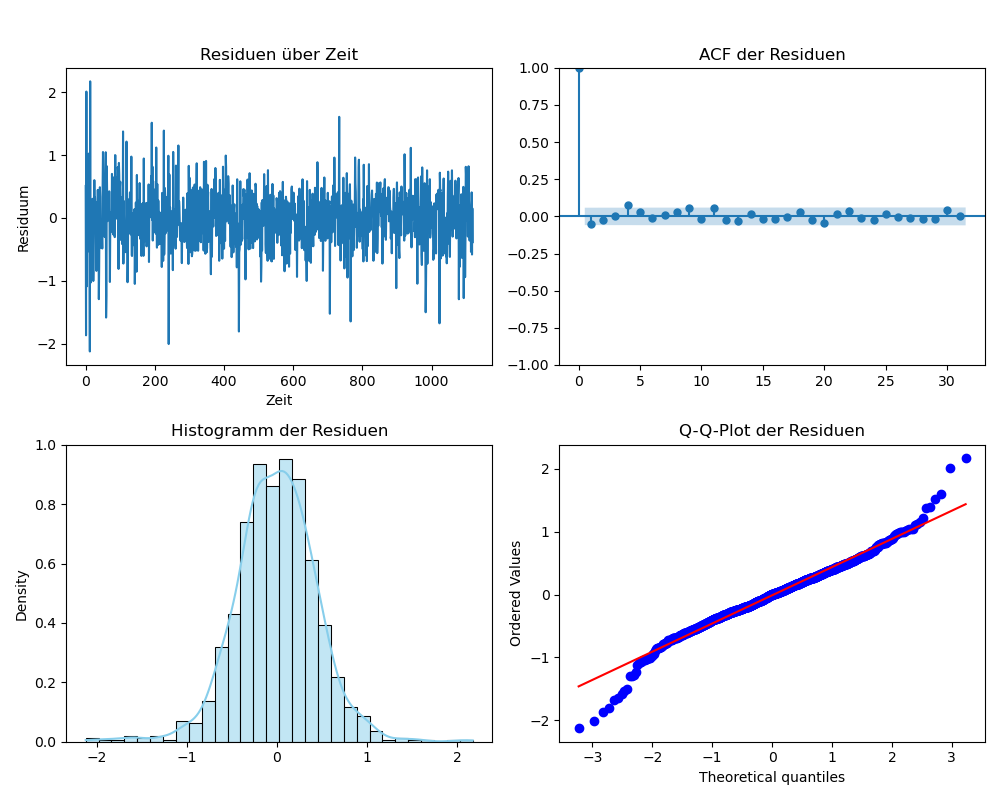
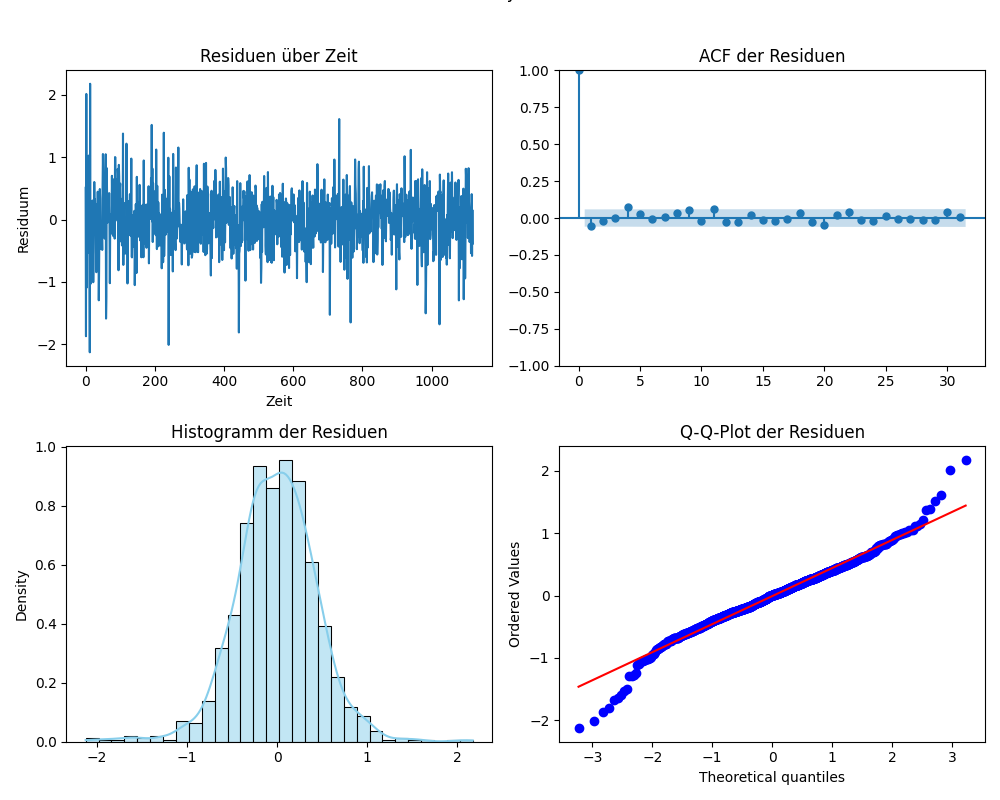
Änderungen von main übernommen

diff --git a/ergebnisse/evaluations_metriken/abakan_evaluation.py b/ergebnisse/evaluations_metriken/abakan_evaluation.py
@@ -1,27 +1,27 @@
 """
 AutoARIMA Evaluationsmetriken für Abakan
-Generiert am: 2025-05-17 00:12:04
+Generiert am: 2025-05-18 13:23:15
 """
 
 evaluation_metrics = {
     'stadt': 'abakan',
-    'order': (3, 0, 0),
+    'order': (2, 0, 1),
     'seasonal_order': (1, 0, 1, 12),
-    'aic': 7660.01825636895,
-    'bic': 7697.680046887935,
-    'generiert_am': '2025-05-17 00:12:04',
-    'parameter_names': ['intercept', 'ar.L1', 'ar.L2', 'ar.L3', 'ar.S.L12', 'ma.S.L12', 'sigma2'],
-    'parameter_values': [-0.0015986574385440622, 0.1943900116446456, -0.0020763365655615583, 0.0027081604750139013, 0.9981299521184749, -0.8631954508158636, 6.730086839933276],
-    't_values': [-0.8548972756790408, 9.541744867550326, -0.08742529539790624, 0.10483688544966735, 2154.4078141225973, -62.1773125209973, 33.43881658524616],
-    'p_values': [0.39260801894358255, 1.4044903606962416e-21, 0.9303334635335286, 0.9165052409505277, 0.0, 0.0, 3.742371051760758e-245],
-    'log_likelihood': -3823.009128184475,
+    'aic': 7650.585064321601,
+    'bic': 7688.246854840586,
+    'generiert_am': '2025-05-18 13:23:15',
+    'parameter_names': ['intercept', 'ar.L1', 'ar.L2', 'ma.L1', 'ar.S.L12', 'ma.S.L12', 'sigma2'],
+    'parameter_values': [-4.959019491396941e-05, 1.05679596394322, -0.1693211119214285, -0.8935367596640843, 0.9989016625392952, -0.8554367829648419, 7.098026849208404],
+    't_values': [-0.1990903491165601, 11.724156865349956, -7.495623579847706, -9.85289478663086, 2580.7712067342895, -53.4320328312059, 32.083198847039256],
+    'p_values': [0.8421920704064746, 9.585062098394292e-32, 6.598390263014846e-14, 6.659767094501983e-23, 0.0, 0.0, 7.563347522039301e-226],
+    'log_likelihood': -3818.2925321608004,
     'n_observations': 1604,
-    'significant_parameters': ['ar.L1', 'ar.S.L12', 'ma.S.L12', 'sigma2'],
+    'significant_parameters': ['ar.L1', 'ar.L2', 'ma.L1', 'ar.S.L12', 'ma.S.L12', 'sigma2'],
 }
 # === Residuenanalyse nach Test des gefundenen SARIMA-Modells ===
 # Folds ausgewertet: 5
-# Durchschnittlicher Train-RMSE: 2.5850
-# Durchschnittlicher Test-RMSE:  3.3924
-# Durchschnittlicher Train-MSE:  6.6834
-# Durchschnittlicher Test-MSE:   11.5514
-# Durchschnittlicher Ljung-Box p-Wert (Lag 10): 0.9348
+# Durchschnittlicher Train-RMSE: 2.5836
+# Durchschnittlicher Test-RMSE:  3.3926
+# Durchschnittlicher Train-MSE:  6.6758
+# Durchschnittlicher Test-MSE:   11.5530
+# Durchschnittlicher Ljung-Box p-Wert (Lag 10): 0.9332

diff --git a/ergebnisse/evaluations_metriken/berlin_evaluation.py b/ergebnisse/evaluations_metriken/berlin_evaluation.py
@@ -1,27 +1,27 @@
 """
 AutoARIMA Evaluationsmetriken für Berlin
-Generiert am: 2025-05-17 00:18:17
+Generiert am: 2025-05-18 13:29:07
 """
 
 evaluation_metrics = {
     'stadt': 'berlin',
-    'order': (0, 1, 1),
+    'order': (1, 1, 2),
     'seasonal_order': (1, 0, 1, 12),
-    'aic': 6843.238962872178,
-    'bic': 6870.137123635225,
-    'generiert_am': '2025-05-17 00:18:17',
-    'parameter_names': ['intercept', 'ma.L1', 'ar.S.L12', 'ma.S.L12', 'sigma2'],
-    'parameter_values': [-2.7412615402452704e-06, -0.9896346018042939, 0.9971526120424006, -0.8759337905964002, 4.001753658515494],
-    't_values': [-0.09423688836259635, -207.93262824500945, 1246.718950330383, -58.51175030842492, 39.70036765378293],
-    'p_values': [0.9249209824694649, 0.0, 0.0, 0.0, 0.0],
-    'log_likelihood': -3416.619481436089,
+    'aic': 6782.348927726002,
+    'bic': 6820.006352794269,
+    'generiert_am': '2025-05-18 13:29:07',
+    'parameter_names': ['intercept', 'ar.L1', 'ma.L1', 'ma.L2', 'ar.S.L12', 'ma.S.L12', 'sigma2'],
+    'parameter_values': [-2.6192514405578967e-06, 0.8814723951953949, -1.7591907128642905, 0.7635470998383126, 0.9990553307759479, -0.8746453020743412, 4.0256496554791115],
+    't_values': [-0.35706199310319053, 32.01564506474657, -52.46440903376812, 24.148571610409547, 1929.9799419595504, -58.564729546155114, 44.35762888599747],
+    'p_values': [0.7210453966043044, 6.60543095981888e-225, 0.0, 7.729139029233765e-129, 0.0, 0.0, 0.0],
+    'log_likelihood': -3384.174463863001,
     'n_observations': 1604,
-    'significant_parameters': ['ma.L1', 'ar.S.L12', 'ma.S.L12', 'sigma2'],
+    'significant_parameters': ['ar.L1', 'ma.L1', 'ma.L2', 'ar.S.L12', 'ma.S.L12', 'sigma2'],
 }
 # === Residuenanalyse nach Test des gefundenen SARIMA-Modells ===
 # Folds ausgewertet: 5
-# Durchschnittlicher Train-RMSE: 1.9190
-# Durchschnittlicher Test-RMSE:  2.5908
-# Durchschnittlicher Train-MSE:  3.6825
-# Durchschnittlicher Test-MSE:   6.7201
-# Durchschnittlicher Ljung-Box p-Wert (Lag 10): 0.0905
+# Durchschnittlicher Train-RMSE: 1.9160
+# Durchschnittlicher Test-RMSE:  2.5921
+# Durchschnittlicher Train-MSE:  3.6710
+# Durchschnittlicher Test-MSE:   6.7272
+# Durchschnittlicher Ljung-Box p-Wert (Lag 10): 0.9326

diff --git a/module/modellierung/pipeline_modellierung.py b/module/modellierung/pipeline_modellierung.py
@@ -30,21 +30,35 @@ def run_complete_modeling():
     completed_steps = 0
     total_steps = 2
 
-    # === Schritt 1: AutoARIMA Modellauswahl ===
-    print(f"\n🤖 SCHRITT 1/{total_steps}: AutoARIMA Modellauswahl")
-    print("-" * 80)
-    print("   → Automatische SARIMA-Modellauswahl für alle Städte")
-    print("   → Speichert optimale Modellparameter")
-    print("   → Erstellt Evaluationsmetriken")
+    try:
+        # === Schritt 1: AutoARIMA Modellauswahl ===
+        print(f"\n🤖 SCHRITT 1/{total_steps}: AutoARIMA Modellauswahl")
+        print("-" * 80)
+        print("   → Automatische SARIMA-Modellauswahl für alle Städte")
+        print("   → Speichert optimale Modellparameter")
+        print("   → Erstellt Evaluationsmetriken")
 
+        # Tatsächlicher Funktionsaufruf!
+        AutoArima.main()
+        completed_steps += 1
+        print(f"✅ Schritt 1/{total_steps} erfolgreich abgeschlossen")
 
-    # === Schritt 2: SARIMA Cross-Validation & Residuenanalyse ===
-    print(f"\n🔬 SCHRITT 2/{total_steps}: SARIMA Cross-Validation & Residuenanalyse")
-    print("-" * 80)
-    print("   → Cross-Validation mit Expanding Window")
-    print("   → Residuenanalyse und Diagnostik")
-    print("   → Prognose-Evaluierung")
+        # === Schritt 2: SARIMA Cross-Validation & Residuenanalyse ===
+        print(f"\n🔬 SCHRITT 2/{total_steps}: SARIMA Cross-Validation & Residuenanalyse")
+        print("-" * 80)
+        print("   → Cross-Validation mit Expanding Window")
+        print("   → Residuenanalyse und Diagnostik")
+        print("   → Prognose-Evaluierung")
 
+        # Tatsächlicher Funktionsaufruf!
+        SarimaCvRes.main()
+        completed_steps += 1
+        print(f"✅ Schritt 2/{total_steps} erfolgreich abgeschlossen")
+
+    except Exception as e:
+        print(f"❌ Fehler in Schritt {completed_steps + 1}: {e}")
+        print("Abbruch der Pipeline...")
+        return False
 
     # === Erfolgreiche Zusammenfassung ===
     end_time = time.time()

diff --git a/ergebnisse/evaluations_metriken/angeles_evaluation.py b/ergebnisse/evaluations_metriken/angeles_evaluation.py
@@ -1,20 +1,20 @@
 """
 AutoARIMA Evaluationsmetriken für Angeles
-Generiert am: 2025-05-17 00:24:08
+Generiert am: 2025-05-18 13:35:14
 """
 
 evaluation_metrics = {
     'stadt': 'angeles',
     'order': (2, 1, 1),
     'seasonal_order': (1, 0, 1, 12),
-    'aic': 1972.7504028473475,
-    'bic': 2010.4078279156142,
-    'generiert_am': '2025-05-17 00:24:08',
+    'aic': 2027.7442025051052,
+    'bic': 2065.401627573372,
+    'generiert_am': '2025-05-18 13:35:14',
     'parameter_names': ['intercept', 'ar.L1', 'ar.L2', 'ma.L1', 'ar.S.L12', 'ma.S.L12', 'sigma2'],
-    'parameter_values': [-1.2587080466925437e-05, 0.3215558402368969, 0.15990997019004105, -0.9863164610018507, 0.9977949194190829, -0.8456474659340081, 0.2044163934297668],
-    't_values': [-0.7927695227841297, 15.623963747504519, 6.942882865206775, -145.17820076409183, 931.8193385676457, -44.661241518819025, 31.437298275897284],
-    'p_values': [0.4279121162585705, 4.999839860352619e-55, 3.841779627617821e-12, 0.0, 0.0, 0.0, 6.260800574075759e-217],
-    'log_likelihood': -979.3752014236737,
+    'parameter_values': [1.1654156384802648e-06, 0.4061800900165722, 0.16895290999971502, -0.962899657449246, 0.99493258372272, -0.8202611330213396, 0.20272150046873133],
+    't_values': [0.03168171054458729, 14.846551742296437, 6.422032114867724, -69.86631325267832, 592.4651203809024, -41.95254443704889, 31.669611756012586],
+    'p_values': [0.9747258804359973, 7.32402393908572e-50, 1.3446704364734664e-10, 0.0, 0.0, 0.0, 4.0731739872794765e-220],
+    'log_likelihood': -1006.8721012525526,
     'n_observations': 1604,
     'significant_parameters': ['ar.L1', 'ar.L2', 'ma.L1', 'ar.S.L12', 'ma.S.L12', 'sigma2'],
 }

diff --git a/skripte/main_universell.py b/skripte/main_universell.py
@@ -29,7 +29,8 @@ def main():
     # ========== KONFIGURATION - WAS SOLL AUSGEFÜHRT WERDEN? ==========
 
     # Option 1: Komplette universelle Pipeline ausführen (Standard)
-    mode = ["cross_validation", "prognose"]   # Ändern Sie das hier für andere Modi
+    #mode = ["cross_validation", "prognose"]   # Ändern Sie das hier für andere Modi
+    mode = "complete"
 
     # Option 2: Nur spezifische Analysen ausführen
     # mode = "auto_arima"        # Nur universelles AutoARIMA

diff --git a/skripte/main_modellierung.py b/skripte/main_modellierung.py
@@ -28,7 +28,7 @@ def main():
     # ========== KONFIGURATION - WAS SOLL AUSGEFÜHRT WERDEN? ==========
 
     # Option 1: Komplette Pipeline ausführen (Standard)
-    mode = "sarima_cv"  # Ändern Sie das hier für andere Modi
+    mode = "complete"  # Ändern Sie das hier für andere Modi
 
     # Option 2: Nur spezifische Schritte ausführen
     # mode = "autoarima"      # Nur AutoARIMA Modellauswahl

diff --git a/module/modellierung/SarimaCvRes.py b/module/modellierung/SarimaCvRes.py
@@ -8,6 +8,8 @@ import scipy.stats as stats
 from statsmodels.graphics.tsaplots import plot_acf
 from statsmodels.tsa.statespace.sarimax import SARIMAX
 from statsmodels.tools.eval_measures import rmse, mse
+import warnings
+warnings.filterwarnings("ignore")
 
 # === Zentrale Konfiguration importieren ===
 sys.path.insert(0, os.path.abspath(os.path.join(os.path.dirname(__file__), '..', '..')))

diff --git a/ergebnisse/model_parameters/berlin_params.py b/ergebnisse/model_parameters/berlin_params.py
@@ -1,10 +1,10 @@
 """
 AutoARIMA Modellparameter für Berlin
-Generiert am: 2025-05-17 00:18:17
+Generiert am: 2025-05-18 13:29:07
 """
 
 name = 'berlin'
-order = (0, 0, 1)
+order = (1, 0, 2)
 seasonal_order = (1, 0, 1, 12)
-aic = 6843.238962872178
-bic = 6870.137123635225
+aic = 6782.348927726002
+bic = 6820.006352794269

diff --git a/ergebnisse/model_parameters/abakan_params.py b/ergebnisse/model_parameters/abakan_params.py
@@ -1,10 +1,10 @@
 """
 AutoARIMA Modellparameter für Abakan
-Generiert am: 2025-05-17 00:12:04
+Generiert am: 2025-05-18 13:23:15
 """
 
 name = 'abakan'
-order = (3, 0, 0)
+order = (2, 0, 1)
 seasonal_order = (1, 0, 1, 12)
-aic = 7660.01825636895
-bic = 7697.680046887935
+aic = 7650.585064321601
+bic = 7688.246854840586

diff --git a/ergebnisse/model_parameters/angeles_params.py b/ergebnisse/model_parameters/angeles_params.py
@@ -1,10 +1,10 @@
 """
 AutoARIMA Modellparameter für Angeles
-Generiert am: 2025-05-17 00:24:08
+Generiert am: 2025-05-18 13:35:14
 """
 
 name = 'angeles'
 order = (2, 0, 1)
 seasonal_order = (1, 0, 1, 12)
-aic = 1972.7504028473475
-bic = 2010.4078279156142
+aic = 2027.7442025051052
+bic = 2065.401627573372

diff --git a/ergebnisse/evaluations_metriken_universell/angeles_evaluation.py b/ergebnisse/evaluations_metriken_universell/angeles_evaluation.py
@@ -1,6 +1,6 @@
 """
 Universelle AutoARIMA Evaluationsmetriken für Angeles
-Generiert am: 2025-05-18 00:07:06
+Generiert am: 2025-05-18 13:54:42
 """
 
 evaluation_metrics = {

diff --git a/ergebnisse/evaluations_metriken_universell/abakan_evaluation.py b/ergebnisse/evaluations_metriken_universell/abakan_evaluation.py
@@ -1,6 +1,6 @@
 """
 Universelle AutoARIMA Evaluationsmetriken für Abakan
-Generiert am: 2025-05-18 00:07:06
+Generiert am: 2025-05-18 13:54:42
 """
 
 evaluation_metrics = {
